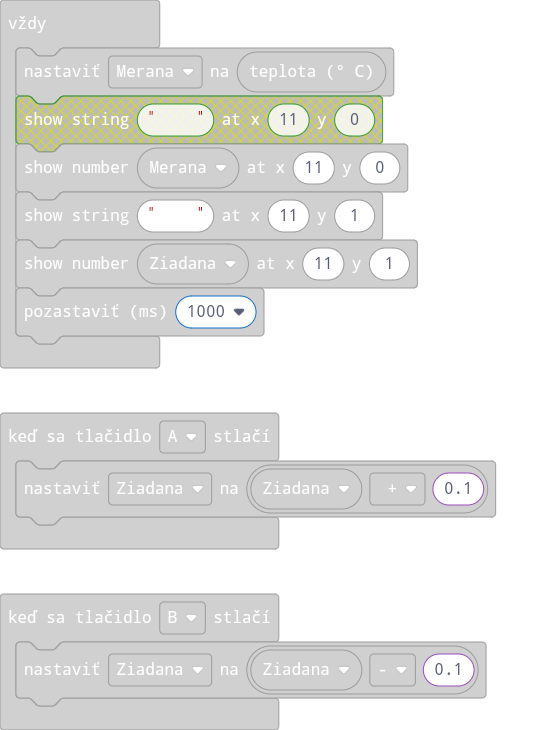
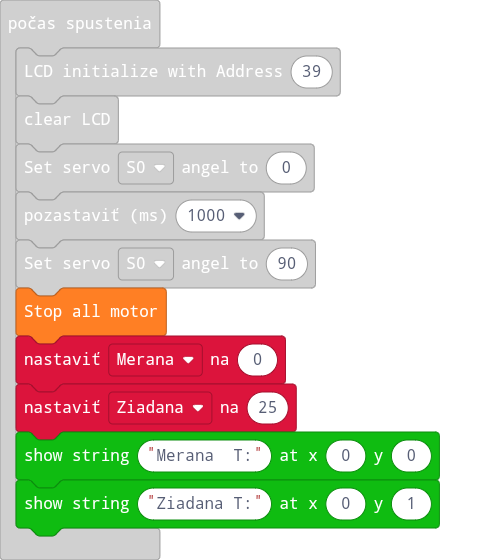
Update main.blocks, main.ts

diff --git a/main.ts b/main.ts
@@ -10,6 +10,7 @@ I2C_LCD1602.clear()
 wuKong.setServoAngel(wuKong.ServoList.S0, 0)
 basic.pause(1000)
 wuKong.setServoAngel(wuKong.ServoList.S0, 90)
+wuKong.stopAllMotor()
 let Merana = 0
 Ziadana = 25
 I2C_LCD1602.ShowString("Merana  T:", 0, 0)
